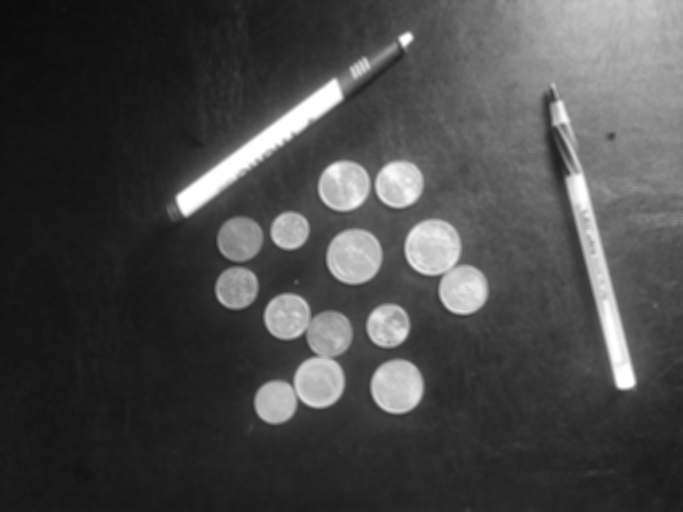
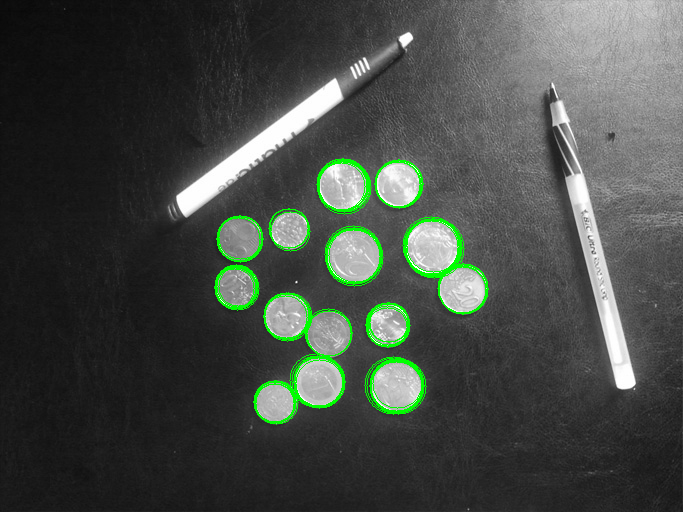
Final touches to CV Assignment 2 script

diff --git a/CV/Assignments/Assignment2/ps2/ps2.py b/CV/Assignments/Assignment2/ps2/ps2.py
@@ -52,7 +52,6 @@ def hough_lines_acc(img_edges, rho_res=1, theta_res=pi/90):
 
 
 def hough_circles_acc(img_edges, radius):
-    print radius
     # Create accumulator array (same size as original image)
     H = np.zeros( img_edges.shape )
     theta_res = pi/90
@@ -138,14 +137,14 @@ def hough_lines_draw(img_out, peaks, rho, theta):
         
     pass
     
-def hough_circles_draw(img_out, peaks, radius):
+def hough_circles_draw(img_out, peaks, radius, color=(0,255,0)):
     """ Draw circles on image corresponding to accumulator peaks"""
     
     for peak in peaks:
         a = peak[0]
         b = peak[1]
         
-        cv2.circle( img_out, ( int(b), int(a) ), radius, 255 )
+        cv2.circle( img_out, ( int(b), int(a) ), radius, color )
     #endfor
     
     pass
@@ -311,22 +310,22 @@ def main():
     # Find and draw circles    
     H = hough_circles_acc(img_edges, 20)
     peaks = hough_peaks(H,10,55)   
+    img = cv2.cvtColor(img, cv2.COLOR_GRAY2BGR)
     hough_circles_draw(img, peaks, 20) 
     cv2.imwrite( os.path.join(output_dir, 'ps2-5-a-3.png'), img ) 
     
     #******************************* 
- 
+    
     # 5b
     #read
     img = cv2.imread( os.path.join(input_dir, 'ps2-input1.png'), 0 )
     # Smooth
     img_smoothed = cv2.GaussianBlur( img, (5,5), 3)
-    cv2.imwrite( os.path.join(output_dir, 'ps2-5-b-1.png'), img_smoothed )
     #edges
     img_edges = cv2.Canny( img_smoothed, 100, 200 )
-    cv2.imwrite( os.path.join(output_dir, 'ps2-5-b-2.png'), img_edges )
     centers, radii = find_circles(img_edges, (20,50))
     
+    img = cv2.cvtColor(img, cv2.COLOR_GRAY2BGR)
     # For each radius, draw the circles
     for i in range(len(radii)):
         # Convert centers list to numpy array
@@ -338,9 +337,9 @@ def main():
         hough_circles_draw( img, c_array, radii[i] )
     #end for
     
-    cv2.imwrite( os.path.join(output_dir, 'ps2-5-b-3.png'), img )
+    cv2.imwrite( os.path.join(output_dir, 'ps2-5-b-1.png'), img )
     
-    '''
+    
     #***********************************************************************************
     
     # 6
@@ -350,12 +349,12 @@ def main():
     # Smooth 
     img_smoothed = cv2.GaussianBlur( img, (5,5), 3)
     # Edges
-    img_edges = cv2.Canny( img_smoothed, 100, 200)
+    img_edges = cv2.Canny( img_smoothed, 75, 150)
     # Save copy for my experimentation
     cv2.imwrite( os.path.join(output_dir, 'jrk_test.png'), img_edges )
     # Find and draw lines
     H, rho, theta = hough_lines_acc( img_edges )
-    peaks = hough_peaks(H, 10)
+    peaks = hough_peaks(H, 12)
     hough_lines_draw( img_smoothed, peaks, rho, theta )
     cv2.imwrite( os.path.join(output_dir, 'ps2-6-a-1.png'), img_smoothed )
     
@@ -365,19 +364,38 @@ def main():
     # Smooth 
     img_smoothed = cv2.GaussianBlur( img, (5,5), 3)
     # Edges
-    img_edges = cv2.Canny( img_smoothed, 100, 200)
-    # Save copy for my experimentation
-    #cv2.imwrite( os.path.join(output_dir, 'jrk_test.png'), img_edges )
+    img_edges = cv2.Canny( img_smoothed, 75, 150)
     # Find and draw lines
     H, rho, theta = hough_lines_acc( img_edges )
-    peaks = hough_peaks(H, 10)
+    peaks = hough_peaks(H, 10, 150)
     hough_lines_draw( img_smoothed, peaks, rho, theta )
-    cv2.imwrite( os.path.join(output_dir, 'ps2-6-a-2.png'), img_smoothed )
-
+    cv2.imwrite( os.path.join(output_dir, 'ps2-6-c-1.png'), img_smoothed )
+    
+    
     #*************************************************************************************
     # 7
     # TODO: Find circles in the same realtistic image, ps2-input2.png
-    # centers, radii = find_circles(img_edges, (20,50) )
+    img = cv2.imread( os.path.join(input_dir, 'ps2-input2.png'), 0 )
+    # Smooth 
+    img_smoothed = cv2.GaussianBlur( img, (15,15), 3)
+    # Edges
+    img_edges = cv2.Canny( img_smoothed, 75, 150)
+    centers, radii = find_circles(img_edges, (20,50) )
+    
+    # For each radius, draw the circles
+    img_smoothed = cv2.cvtColor(img, cv2.COLOR_GRAY2BGR)
+    for i in range(len(radii)):
+        # Convert centers list to numpy array
+        c_array = np.zeros( ( len(centers[i]), 2 ) )       
+        for j in range( len(centers[i]) ):
+            c_array[j,0] = centers[i][j][0]
+            c_array[j,1] = centers[i][j][1]
+        #end for  
+        hough_circles_draw( img_smoothed, c_array, radii[i] )
+    #end for
+    
+    cv2.imwrite( os.path.join(output_dir, 'ps2-7-a-1.png'), img_smoothed )
+    
     #*************************************************************************************
 
     # 8
@@ -387,17 +405,26 @@ def main():
     img_smoothed = cv2.GaussianBlur( img, (5,5), 3)
     # Edges
     img_edges = cv2.Canny( img_smoothed, 100, 200)
-    # Save copy for my experimentation
-    #cv2.imwrite( os.path.join(output_dir, 'jrk_test.png'), img_edges )
     # Find and lines
     H, rho, theta = hough_lines_acc( img_edges )
     peaks = hough_peaks(H, 10)
     # Find circles
-    
+    centers, radii = find_circles(img_edges, (20,50) )
     # Draw circles and lines
-    hough_lines_draw( img_smoothed, peaks, rho, theta )
-    cv2.imwrite( os.path.join(output_dir, 'ps2-8-a-1.png'), img_smoothed )
-    '''
+    hough_lines_draw( img, peaks, rho, theta )
+    # For each radius, draw the circles
+    for i in range(len(radii)):
+        # Convert centers list to numpy array
+        c_array = np.zeros( ( len(centers[i]), 2 ) )       
+        for j in range( len(centers[i]) ):
+            c_array[j,0] = centers[i][j][0]
+            c_array[j,1] = centers[i][j][1]
+        #end for  
+        hough_circles_draw( img, c_array, radii[i], 255 )
+    #end for
+    
+    cv2.imwrite( os.path.join(output_dir, 'ps2-8-a-1.png'), img )
+    
 
 if __name__ == "__main__":
     main()

diff --git a/CV/Assignments/Assignment3/ps3/ps3.py b/CV/Assignments/Assignment3/ps3/ps3.py
@@ -28,7 +28,7 @@ def disparity_ssd(L, R):
         
         
 
-    pass  # TODO: Your code here
+    return D
 
 
 def disparity_ncorr(L, R):
@@ -40,8 +40,10 @@ def disparity_ncorr(L, R):
 
     Returns: Disparity map, same size as L, R
     """
-
-    pass  # TODO: Your code here
+    D = np.zero(L.shape)
+    D = cv2.matchTemplate(L, R, CV_TM_CCORR_NORMED)
+    
+    return D
 
 
 def main():
